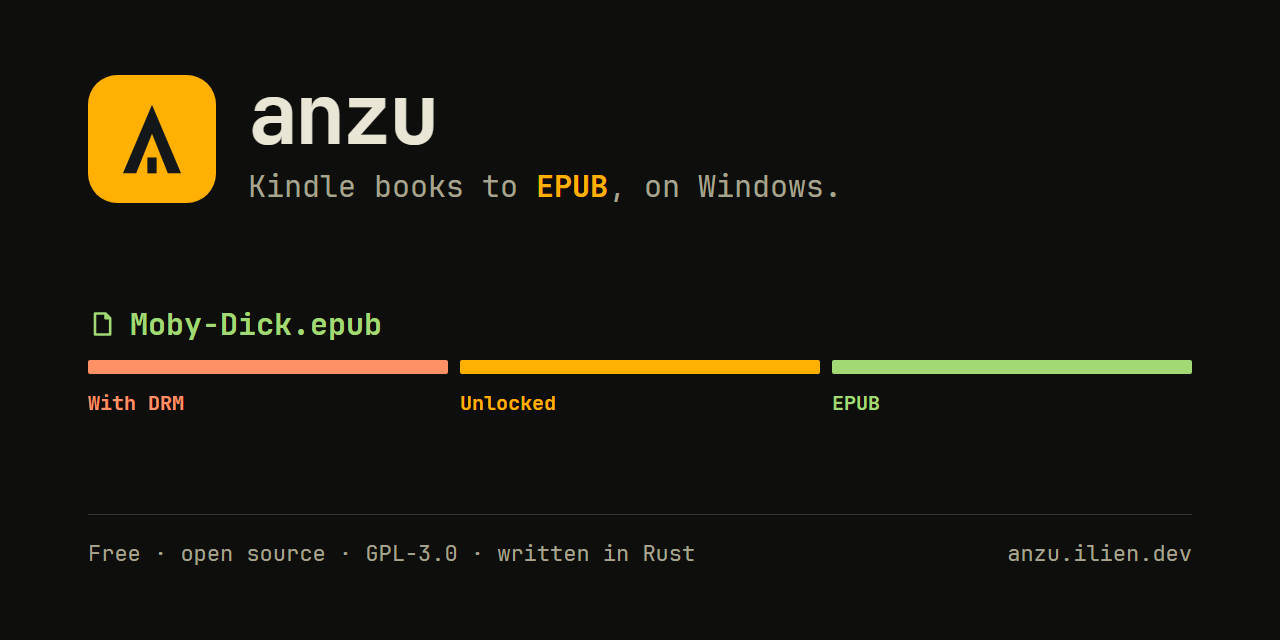
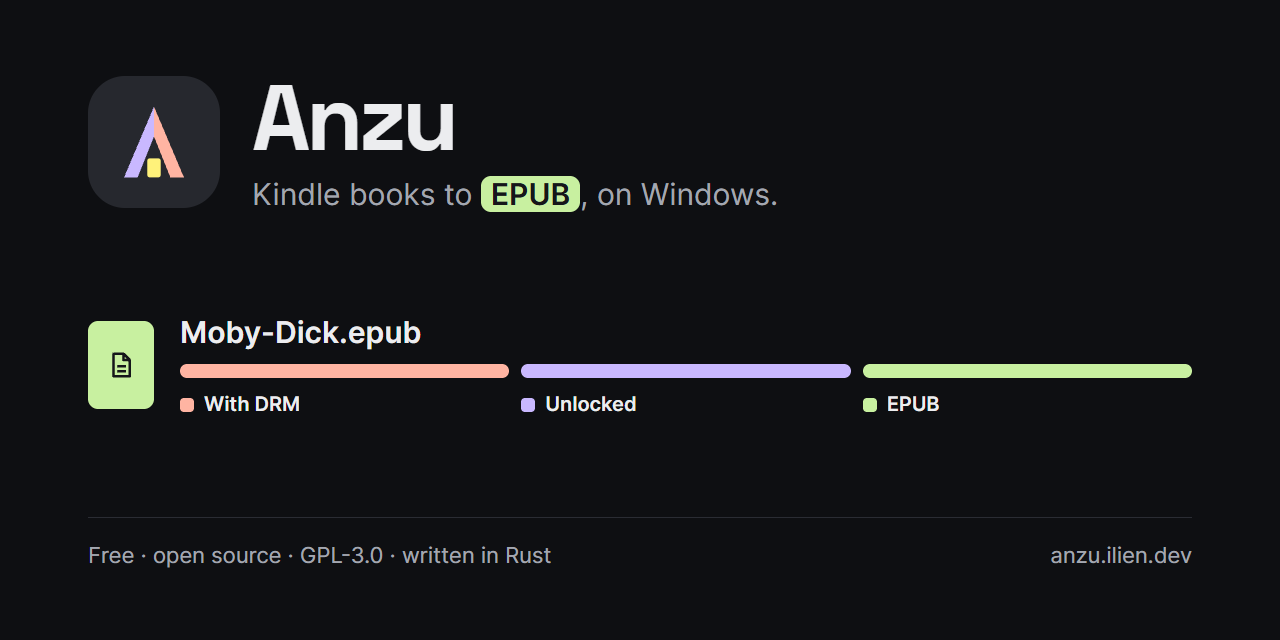
docs: readme hero, badges and credits in the coloured paper style (#11)

diff --git a/assets/motion/source/hero.html b/assets/motion/source/hero.html
@@ -1,26 +1,29 @@
 <!doctype html>
 <!-- The README hero: a book moves along the app's three-stage track, from its ASIN with a
-     lock to its real title to Moby-Dick.epub. Option A of the hero canvas.
+     lock to its real title to Moby-Dick.epub, its cover taking the pastel of each stage.
      Open it in a browser to watch it; export.mjs renders it to ../hero-*.gif.
      Query: ?lang=en|es&theme=dark|light -->
 <html lang="en">
 <meta charset="utf-8">
 <title>Anzu hero</title>
 <style>
-@font-face{font-family:"JetBrains Mono";src:url("../../../crates/anzu/assets/fonts/JetBrainsMono-Regular.ttf");font-weight:400}
-@font-face{font-family:"JetBrains Mono";src:url("../../../crates/anzu/assets/fonts/JetBrainsMono-Bold.ttf");font-weight:700}
+@font-face{font-family:"Inter";src:url("../../../crates/anzu/assets/fonts/Inter-Regular.otf");font-weight:400}
+@font-face{font-family:"Inter";src:url("../../../crates/anzu/assets/fonts/Inter-SemiBold.otf");font-weight:600}
+@font-face{font-family:"Space Grotesk";src:url("../../../crates/anzu/assets/fonts/SpaceGrotesk-Bold.ttf");font-weight:700}
 html,body{margin:0;background:#888}
-/* The palettes of the app (crates/anzu/src/ui/theme.rs) on GitHub's own grounds. */
-.root{font-family:"JetBrains Mono",ui-monospace,monospace;--gh:#0d1117;--bg:#0e0f0c;--line:#34382b;--fg:#e9e6d6;--muted:#a7a48f;--accent:#ffb000;--ok:#a2d975;--warn:#ff9166}
-.root.light{--gh:#ffffff;--bg:#f3f5f7;--line:#cbd2d9;--fg:#14171a;--muted:#55606b;--accent:#b25e00;--ok:#1f6b3a;--warn:#a63a12}
+/* The palettes of the app (crates/anzu/src/ui/theme.rs) on GitHub's own grounds. Pastels
+   are fills; text on them is ink. */
+.root{font-family:"Inter",sans-serif;--ink:#15161a;--drm:#ffb4a2;--unl:#c9b8ff;--epub:#c8f0a0;--butter:#fff27a;
+  --gh:#0d1117;--bg:#16171b;--line:#2a2c33;--fg:#ecedef;--muted:#a3a7b0;--quiet:#1e2025;--tile:#26282e}
+.root.light{--gh:#ffffff;--bg:#f4f5f7;--line:#e4e7ec;--fg:#15161a;--muted:#565a64;--quiet:#e4e7ec;--tile:#15161a}
 .root{width:960px;height:400px;box-sizing:border-box;padding:20px;background:var(--gh)}
-.card{box-sizing:border-box;width:100%;height:100%;border-radius:6px;padding:44px 56px;background:var(--bg);border:1px solid var(--line);color:var(--fg)}
+.card{box-sizing:border-box;width:100%;height:100%;border-radius:22px;padding:40px 52px;background:var(--bg);border:1px solid var(--line);color:var(--fg)}
 .stage{display:flex;flex-direction:column;justify-content:space-between;height:100%;animation:stage 8s linear infinite}
 @keyframes stage{0%{opacity:0}4%,92%{opacity:1}100%{opacity:0}}
-.head{display:flex;align-items:center;gap:28px}
-.name{font-size:46px;font-weight:700;letter-spacing:-.035em;line-height:1}
-.tagline{font-size:19px;color:var(--muted);margin-top:6px}
-.tagline b{color:var(--accent)}
+.head{display:flex;align-items:center;gap:26px}
+.name{font-family:"Space Grotesk",sans-serif;font-size:52px;font-weight:700;letter-spacing:-.045em;line-height:1}
+.tagline{font-size:20px;color:var(--muted);margin-top:8px}
+.tagline b{font-weight:600;color:var(--ink);background:var(--epub);border-radius:7px;padding:1px 7px}
 .wing{transform-box:view-box;transform-origin:32px 58px;animation:wing 8s cubic-bezier(.16,1,.3,1) infinite}
 .wl{--tilt:16deg}.wr{--tilt:-16deg}
 @keyframes wing{0%{transform:rotate(var(--tilt)) scaleX(.55);opacity:.2}12%,100%{transform:none;opacity:1}}
@@ -28,28 +31,34 @@ html,body{margin:0;background:#888}
 @keyframes tab{0%,5%{transform:translateY(8px);opacity:0}14%,100%{transform:none;opacity:1}}
 .intro{animation:intro 8s cubic-bezier(.16,1,.3,1) infinite}
 @keyframes intro{0%,6%{opacity:0;transform:translateY(6px)}14%,100%{opacity:1;transform:none}}
-.book{display:flex;flex-direction:column;gap:14px}
-.swap{position:relative;height:30px;font-size:22px;font-weight:700}
-.swap>span{position:absolute;left:0;top:0;display:flex;align-items:center;gap:12px;white-space:nowrap}
+.book{display:flex;align-items:center;gap:22px}
+.cover{position:relative;flex:none;width:58px;height:78px;border-radius:9px;background:var(--drm);animation:cover 8s linear infinite}
+@keyframes cover{0%,38%{background:var(--drm)}41%,56%{background:var(--unl)}59%,100%{background:var(--epub)}}
+.cover svg{position:absolute;inset:0;margin:auto;color:var(--ink)}
+.ic1{animation:t1 8s linear infinite}.ic2{animation:t2 8s linear infinite}.ic3{animation:t3b 8s linear infinite}
+.track{flex:1;display:flex;flex-direction:column;gap:12px}
+.swap{position:relative;height:30px;font-size:23px;font-weight:600}
+.swap>span{position:absolute;left:0;top:0;white-space:nowrap}
 .t1{color:var(--muted);animation:t1 8s linear infinite}
 .t2{color:var(--fg);animation:t2 8s linear infinite}
-.t3{color:var(--ok);animation:t3 8s linear infinite}
+.t3{color:var(--fg);animation:t3 8s linear infinite}
 @keyframes t1{0%,38%{opacity:1;filter:none}41%,100%{opacity:0;filter:blur(3px)}}
 @keyframes t2{0%,38%{opacity:0;filter:blur(3px)}41%,56%{opacity:1;filter:none}59%,100%{opacity:0;filter:blur(3px)}}
 @keyframes t3{0%,56%{opacity:0;transform:translateX(-8px)}60%,100%{opacity:1;transform:none}}
+@keyframes t3b{0%,56%{opacity:0}60%,100%{opacity:1}}
 .row{display:grid;grid-template-columns:repeat(3,minmax(0,1fr));gap:10px}
-.seg{height:12px;border-radius:2px;border:1px solid var(--line);overflow:hidden}
-.fill{height:100%;transform-origin:left;transform:scaleX(0)}
-.f1{background:var(--warn);animation:f1 8s cubic-bezier(.65,0,.35,1) infinite}
-.f2{background:var(--accent);animation:f2 8s cubic-bezier(.65,0,.35,1) infinite}
-.f3{background:var(--ok);animation:f3 8s cubic-bezier(.65,0,.35,1) infinite}
+.seg{height:12px;border-radius:6px;background:var(--quiet);overflow:hidden}
+.fill{height:100%;border-radius:6px;transform-origin:left;transform:scaleX(0)}
+.f1{background:var(--drm);animation:f1 8s cubic-bezier(.65,0,.35,1) infinite}
+.f2{background:var(--unl);animation:f2 8s cubic-bezier(.65,0,.35,1) infinite}
+.f3{background:var(--epub);animation:f3 8s cubic-bezier(.65,0,.35,1) infinite}
 @keyframes f1{0%,15%{transform:scaleX(0)}27%,100%{transform:scaleX(1)}}
 @keyframes f2{0%,33%{transform:scaleX(0)}45%,100%{transform:scaleX(1)}}
 @keyframes f3{0%,51%{transform:scaleX(0)}63%,100%{transform:scaleX(1)}}
-.labels{font-size:15px;font-weight:700}
-.l1{color:var(--warn);animation:l1 8s steps(1) infinite}
-.l2{color:var(--accent);animation:l2 8s steps(1) infinite}
-.l3{color:var(--ok);animation:l3 8s steps(1) infinite}
+.labels{font-size:15px;font-weight:600}
+.labels span{display:flex;align-items:center;gap:8px}
+.labels span::before{content:"";width:12px;height:12px;border-radius:4px;background:var(--c)}
+.l1{animation:l1 8s steps(1) infinite}.l2{animation:l2 8s steps(1) infinite}.l3{animation:l3 8s steps(1) infinite}
 @keyframes l1{0%{opacity:.35}20%,100%{opacity:1}}
 @keyframes l2{0%{opacity:.35}39%,100%{opacity:1}}
 @keyframes l3{0%{opacity:.35}57%,100%{opacity:1}}
@@ -59,27 +68,34 @@ html,body{margin:0;background:#888}
   <div class="card">
     <div class="stage">
       <div class="head">
-        <svg width="92" height="92" viewBox="0 0 64 64" aria-hidden="true">
-          <rect width="64" height="64" rx="14.72" fill="#14171a"/>
-          <g transform="translate(10.88 10.88) scale(0.66)" fill="#ffb000">
-            <polygon class="wing wl" points="32,6 10,58 20,58 32,28"/>
-            <polygon class="wing wr" points="32,6 32,28 44,58 54,58"/>
-            <rect class="tab" x="28.5" y="46" width="7" height="12"/>
+        <svg width="96" height="96" viewBox="0 0 64 64" aria-hidden="true">
+          <rect width="64" height="64" rx="18" style="fill:var(--tile)"/>
+          <g transform="translate(10.88 10.88) scale(0.66)">
+            <polygon class="wing wl" points="32,6 10,58 20,58 32,28" fill="#c9b8ff"/>
+            <polygon class="wing wr" points="32,6 32,28 44,58 54,58" fill="#ffb4a2"/>
+            <rect class="tab" x="27" y="44" width="10" height="14" rx="2" fill="#fff27a"/>
           </g>
         </svg>
         <div class="intro">
-          <div class="name">anzu</div>
+          <div class="name">Anzu</div>
           <div class="tagline" data-t="tagline"></div>
         </div>
       </div>
       <div class="book">
-        <div class="swap">
-          <span class="t1"><svg width="20" height="20" viewBox="0 0 24 24" fill="none" stroke="currentColor" stroke-width="2.2" stroke-linejoin="round"><rect x="5" y="11" width="14" height="10" rx="1"/><path d="M8 11V7a4 4 0 0 1 8 0v4"/></svg>B07XKQ9R2M</span>
-          <span class="t2">Moby-Dick</span>
-          <span class="t3"><svg width="20" height="20" viewBox="0 0 24 24" fill="none" stroke="currentColor" stroke-width="2.2" stroke-linejoin="round"><path d="M6 3h9l4 4v14H6z"/><path d="M15 3v4h4"/></svg>Moby-Dick.epub</span>
+        <div class="cover">
+          <svg class="ic1" width="24" height="24" viewBox="0 0 24 24" fill="none" stroke="currentColor" stroke-width="2" stroke-linejoin="round"><rect x="5" y="11" width="14" height="10" rx="2"/><path d="M8 11V7a4 4 0 0 1 8 0v4"/></svg>
+          <svg class="ic2" width="24" height="24" viewBox="0 0 24 24" fill="none" stroke="currentColor" stroke-width="2" stroke-linejoin="round"><rect x="5" y="11" width="14" height="10" rx="2"/><path d="M8 11V7a4 4 0 0 1 8 0v-1"/></svg>
+          <svg class="ic3" width="24" height="24" viewBox="0 0 24 24" fill="none" stroke="currentColor" stroke-width="2" stroke-linejoin="round"><path d="M6 3h8l5 5v13H6z"/><path d="M14 3v5h5"/><path d="M9 13h7M9 17h7"/></svg>
         </div>
-        <div class="row"><div class="seg"><div class="fill f1"></div></div><div class="seg"><div class="fill f2"></div></div><div class="seg"><div class="fill f3"></div></div></div>
-        <div class="row labels"><span class="l1" data-t="drm"></span><span class="l2" data-t="unlocked"></span><span class="l3">EPUB</span></div>
+        <div class="track">
+          <div class="swap">
+            <span class="t1">B07XKQ9R2M</span>
+            <span class="t2">Moby-Dick</span>
+            <span class="t3">Moby-Dick.epub</span>
+          </div>
+          <div class="row"><div class="seg"><div class="fill f1"></div></div><div class="seg"><div class="fill f2"></div></div><div class="seg"><div class="fill f3"></div></div></div>
+          <div class="row labels"><span class="l1" style="--c:var(--drm)" data-t="drm"></span><span class="l2" style="--c:var(--unl)" data-t="unlocked"></span><span class="l3" style="--c:var(--epub)">EPUB</span></div>
+        </div>
       </div>
     </div>
   </div>

diff --git a/assets/social/social.html b/assets/social/social.html
@@ -5,37 +5,44 @@
 <meta charset="utf-8">
 <title>Anzu social preview</title>
 <style>
-  @font-face { font-family: "JetBrains Mono"; src: url("../../crates/anzu/assets/fonts/JetBrainsMono-Regular.ttf"); font-weight: 400; }
-  @font-face { font-family: "JetBrains Mono"; src: url("../../crates/anzu/assets/fonts/JetBrainsMono-Bold.ttf"); font-weight: 700; }
+  @font-face { font-family: "Inter"; src: url("../../crates/anzu/assets/fonts/Inter-Regular.otf"); font-weight: 400; }
+  @font-face { font-family: "Inter"; src: url("../../crates/anzu/assets/fonts/Inter-SemiBold.otf"); font-weight: 600; }
+  @font-face { font-family: "Space Grotesk"; src: url("../../crates/anzu/assets/fonts/SpaceGrotesk-Bold.ttf"); font-weight: 700; }
   html, body { margin: 0; width: 1280px; height: 640px; overflow: hidden; }
-  body { background: #0e0f0c; color: #e9e6d6; font-family: "JetBrains Mono", monospace; box-sizing: border-box; padding: 72px 88px; display: flex; flex-direction: column; justify-content: space-between; }
+  body { background: #0e0f12; color: #ecedef; font-family: "Inter", sans-serif; box-sizing: border-box; padding: 72px 88px; display: flex; flex-direction: column; justify-content: space-between; }
   .head { display: flex; align-items: center; gap: 32px; }
-  .mark { width: 128px; height: 128px; }
-  .name { font-size: 84px; font-weight: 700; letter-spacing: -0.04em; line-height: 1; }
-  .tag { font-size: 30px; color: #a7a48f; margin-top: 10px; }
-  .tag b { color: #ffb000; }
-  .book { display: flex; flex-direction: column; gap: 16px; }
-  .file { display: flex; align-items: center; gap: 14px; font-size: 30px; font-weight: 700; color: #a2d975; }
+  .mark { width: 132px; height: 132px; }
+  .name { font-family: "Space Grotesk", sans-serif; font-size: 92px; font-weight: 700; letter-spacing: -0.045em; line-height: 1; }
+  .tag { font-size: 30px; color: #a3a7b0; margin-top: 12px; }
+  .tag b { font-weight: 600; color: #15161a; background: #c8f0a0; border-radius: 10px; padding: 0 10px; }
+  .book { display: flex; align-items: center; gap: 26px; }
+  .cover { flex: none; width: 66px; height: 88px; border-radius: 10px; background: #c8f0a0; display: grid; place-items: center; color: #15161a; }
+  .track { flex: 1; display: flex; flex-direction: column; gap: 14px; }
+  .file { font-size: 30px; font-weight: 600; }
   .row { display: grid; grid-template-columns: repeat(3, 1fr); gap: 12px; }
-  .row span.bar { height: 14px; border-radius: 2px; }
-  .labels { font-size: 20px; font-weight: 700; }
-  .foot { display: flex; justify-content: space-between; font-size: 22px; color: #a7a48f; border-top: 1px solid #34382b; padding-top: 24px; }
+  .row span.bar { height: 14px; border-radius: 7px; }
+  .labels { font-size: 20px; font-weight: 600; }
+  .labels span::before { content: ""; display: inline-block; width: 14px; height: 14px; border-radius: 4px; margin-right: 10px; vertical-align: -1px; background: var(--c); }
+  .foot { display: flex; justify-content: space-between; font-size: 22px; color: #a3a7b0; border-top: 1px solid #2a2c33; padding-top: 24px; }
 </style>
 <body>
   <div class="head">
     <svg class="mark" viewBox="0 0 64 64" aria-hidden="true">
-      <rect width="64" height="64" rx="14.72" fill="#ffb000"/>
-      <g transform="translate(10.88 10.88) scale(0.66)" fill="#14171a"><polygon points="32,6 10,58 20,58 32,28"/><polygon points="32,6 32,28 44,58 54,58"/><rect x="28.5" y="46" width="7" height="12"/></g>
+      <rect width="64" height="64" rx="18" fill="#26282e"/>
+      <g transform="translate(10.88 10.88) scale(0.66)"><polygon points="32,6 10,58 20,58 32,28" fill="#c9b8ff"/><polygon points="32,6 32,28 44,58 54,58" fill="#ffb4a2"/><rect x="27" y="44" width="10" height="14" rx="2" fill="#fff27a"/></g>
     </svg>
     <div>
-      <div class="name">anzu</div>
+      <div class="name">Anzu</div>
       <div class="tag">Kindle books to <b>EPUB</b>, on Windows.</div>
     </div>
   </div>
   <div class="book">
-    <div class="file"><svg width="28" height="28" viewBox="0 0 24 24" fill="none" stroke="currentColor" stroke-width="2.2" stroke-linejoin="round"><path d="M6 3h9l4 4v14H6z"/><path d="M15 3v4h4"/></svg>Moby-Dick.epub</div>
-    <div class="row"><span class="bar" style="background:#ff9166"></span><span class="bar" style="background:#ffb000"></span><span class="bar" style="background:#a2d975"></span></div>
-    <div class="row labels"><span style="color:#ff9166">With DRM</span><span style="color:#ffb000">Unlocked</span><span style="color:#a2d975">EPUB</span></div>
+    <div class="cover"><svg width="30" height="30" viewBox="0 0 24 24" fill="none" stroke="currentColor" stroke-width="2" stroke-linejoin="round"><path d="M6 3h8l5 5v13H6z"/><path d="M14 3v5h5"/><path d="M9 13h7M9 17h7"/></svg></div>
+    <div class="track">
+      <div class="file">Moby-Dick.epub</div>
+      <div class="row"><span class="bar" style="background:#ffb4a2"></span><span class="bar" style="background:#c9b8ff"></span><span class="bar" style="background:#c8f0a0"></span></div>
+      <div class="row labels"><span style="--c:#ffb4a2">With DRM</span><span style="--c:#c9b8ff">Unlocked</span><span style="--c:#c8f0a0">EPUB</span></div>
+    </div>
   </div>
   <div class="foot"><span>Free · open source · GPL-3.0 · written in Rust</span><span>anzu.ilien.dev</span></div>
 </body>

diff --git a/README.es.md b/README.es.md
@@ -16,10 +16,10 @@
 </p>
 
 <p align="center">
-  <a href="https://anzu.ilien.dev/es/"><img alt="Sitio web: anzu.ilien.dev" src="https://img.shields.io/badge/sitio%20web-anzu.ilien.dev-ffb000?style=flat-square&labelColor=14171a"></a>
-  <a href="https://github.com/ilien-dev/anzu/releases/latest"><img alt="Última versión" src="https://img.shields.io/github/v/release/ilien-dev/anzu?style=flat-square&color=ffb000&labelColor=14171a&label=descargar"></a>
-  <img alt="Windows 10 y 11" src="https://img.shields.io/badge/Windows-10%20%C2%B7%2011-14171a?style=flat-square">
-  <a href="LICENSE"><img alt="Licencia: GPL-3.0-or-later" src="https://img.shields.io/badge/licencia-GPL--3.0-14171a?style=flat-square"></a>
+  <a href="https://anzu.ilien.dev/es/"><img alt="Sitio web: anzu.ilien.dev" src="https://img.shields.io/badge/sitio%20web-anzu.ilien.dev-fff27a?style=flat-square&labelColor=15161a"></a>
+  <a href="https://github.com/ilien-dev/anzu/releases/latest"><img alt="Última versión" src="https://img.shields.io/github/v/release/ilien-dev/anzu?style=flat-square&color=fff27a&labelColor=15161a&label=descargar"></a>
+  <img alt="Windows 10 y 11" src="https://img.shields.io/badge/Windows-10%20%C2%B7%2011-15161a?style=flat-square">
+  <a href="LICENSE"><img alt="Licencia: GPL-3.0-or-later" src="https://img.shields.io/badge/licencia-GPL--3.0-15161a?style=flat-square"></a>
 </p>
 
 <p align="center">
@@ -100,9 +100,11 @@ cualquier otro programa.
 ## Cómo se usa
 
 1. **Descarga tus libros** en la app de Kindle, como siempre.
-2. **Abre Anzu.** Encuentra la app de Kindle y muestra tus libros. Hasta que un libro se
+2. **Abre Anzu.** Encuentra la app de Kindle y pone tus libros en estantes según lo que
+   les falta: por desbloquear, listos para EPUB o ya en EPUB. Hasta que un libro se
    desbloquea ves un código en lugar del título; el título real aparece al desbloquearlo.
-3. **Marca los libros que quieras** y elige la carpeta donde irán los EPUB
+3. **Marca los libros que quieras.** El panel lateral los lista con lo que se hará con
+   cada uno. Elige la carpeta donde irán los EPUB
    (`Documents\EPUB` por defecto).
 4. **Pulsa el botón.** Siempre dice lo que va a pasar, por ejemplo «Desbloquear y
    convertir 2 libros». La app de Kindle tiene que estar cerrada para desbloquear, así que
@@ -164,7 +166,9 @@ desbloqueados se pueden seguir convirtiendo.
 
 **¿De dónde viene el nombre?**
 En la mitología mesopotámica, Anzu es el ave que robó a los dioses la Tablilla de los
-Destinos. El logo es una A formada por dos alas abiertas sobre una tablilla.
+Destinos. El logo es una A formada por dos alas abiertas sobre una tablilla: un ala lila,
+un ala melocotón y una tablilla amarilla, los colores que la app da a un libro mientras
+pasa de DRM a EPUB.
 
 ## Para quien quiera saber más
 
@@ -177,8 +181,8 @@ lee [CONTRIBUTING.md](CONTRIBUTING.md).
 
 - **Satsuoni**, por la herramienta de desbloqueo.
 - **John Howell** (jhowell), cuyo complemento KFX Input es la referencia del formato KFX.
-- **JetBrains Mono**, la tipografía de la interfaz, con licencia SIL Open Font License 1.1
-  (`crates/anzu/assets/fonts/OFL.txt`).
+- **Inter** y **Space Grotesk**, las tipografías de la interfaz, con licencia SIL Open Font
+  License 1.1 (`crates/anzu/assets/fonts/Inter-OFL.txt` y `SpaceGrotesk-OFL.txt`).
 
 ## Licencia
 

diff --git a/README.md b/README.md
@@ -16,10 +16,10 @@
 </p>
 
 <p align="center">
-  <a href="https://anzu.ilien.dev/"><img alt="Website: anzu.ilien.dev" src="https://img.shields.io/badge/website-anzu.ilien.dev-ffb000?style=flat-square&labelColor=14171a"></a>
-  <a href="https://github.com/ilien-dev/anzu/releases/latest"><img alt="Latest release" src="https://img.shields.io/github/v/release/ilien-dev/anzu?style=flat-square&color=ffb000&labelColor=14171a&label=download"></a>
-  <img alt="Windows 10 and 11" src="https://img.shields.io/badge/Windows-10%20%C2%B7%2011-14171a?style=flat-square">
-  <a href="LICENSE"><img alt="License: GPL-3.0-or-later" src="https://img.shields.io/badge/license-GPL--3.0-14171a?style=flat-square"></a>
+  <a href="https://anzu.ilien.dev/"><img alt="Website: anzu.ilien.dev" src="https://img.shields.io/badge/website-anzu.ilien.dev-fff27a?style=flat-square&labelColor=15161a"></a>
+  <a href="https://github.com/ilien-dev/anzu/releases/latest"><img alt="Latest release" src="https://img.shields.io/github/v/release/ilien-dev/anzu?style=flat-square&color=fff27a&labelColor=15161a&label=download"></a>
+  <img alt="Windows 10 and 11" src="https://img.shields.io/badge/Windows-10%20%C2%B7%2011-15161a?style=flat-square">
+  <a href="LICENSE"><img alt="License: GPL-3.0-or-later" src="https://img.shields.io/badge/license-GPL--3.0-15161a?style=flat-square"></a>
 </p>
 
 <p align="center">
@@ -98,9 +98,11 @@ say so. To remove it, uninstall Anzu from Settings › Apps like any other progr
 ## How to use it
 
 1. **Download your books** in the Kindle app, as you normally do.
-2. **Open Anzu.** It finds the Kindle app and lists your books. Until a book is unlocked
+2. **Open Anzu.** It finds the Kindle app and puts your books on shelves by what they still
+   need: to unlock, ready for EPUB, or already in EPUB. Until a book is unlocked
    you see a code instead of its title; the real title appears once it is unlocked.
-3. **Tick the books you want** and choose the folder where the EPUB files will go
+3. **Tick the books you want.** The side panel lists them with what will be done to each.
+   Choose the folder where the EPUB files will go
    (`Documents\EPUB` by default).
 4. **Press the button.** It always says what is about to happen, for example
    “Unlock and convert 2 books”. The Kindle app has to be closed for the unlock, so Anzu
@@ -160,7 +162,8 @@ can still be converted.
 
 **Where does the name come from?**
 In Mesopotamian myth, Anzu is the bird that stole the Tablet of Destinies from the gods.
-The logo is an A made of two open wings over a tablet.
+The logo is an A made of two open wings over a tablet: a lilac wing, a peach wing and a
+butter tablet, the colours the app gives a book as it moves from DRM to EPUB.
 
 ## For the curious
 
@@ -173,8 +176,8 @@ command line, the known limitations and how to build it from source are all in t
 
 - **Satsuoni**, for the unlock tool.
 - **John Howell** (jhowell), whose KFX Input plugin is the reference for the KFX format.
-- **JetBrains Mono**, the interface typeface, under the SIL Open Font License 1.1
-  (`crates/anzu/assets/fonts/OFL.txt`).
+- **Inter** and **Space Grotesk**, the interface typefaces, under the SIL Open Font License
+  1.1 (`crates/anzu/assets/fonts/Inter-OFL.txt` and `SpaceGrotesk-OFL.txt`).
 
 ## License
 
